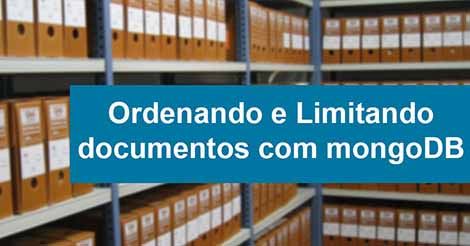
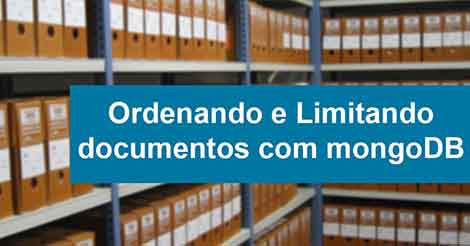
Imagens

diff --git a/Gruntfile.js b/Gruntfile.js
@@ -7,7 +7,8 @@ module.exports = function (grunt) {
         imagemin: {
             png: {
                 options: {
-                    optimizationLevel: 7
+                    optimizationLevel: 7,
+                    progressive: true
                 },
                 files: [
                     {
@@ -25,7 +26,8 @@ module.exports = function (grunt) {
             },
             jpg: {
                 options: {
-                    optimizationLevel: 7
+                    optimizationLevel: 7,
+                    progressive: true
                 },
                 files: [
                     {
@@ -40,25 +42,6 @@ module.exports = function (grunt) {
                         ext: '.jpg'
                     }
                 ]
-            }
-        },
-
-        responsive_images: {
-            thumbs: {
-                options: {
-                    sizes: [{
-                        width: 470,
-                        height: 246,
-                        aspectRatio: true,
-                    }]
-                },
-                files: [{
-                    expand: true,
-                    flatten: true,
-                    src: ['media/compressed/posts/thumbs/*.{jpg,gif,png}'],
-                    cwd: '',
-                    dest: 'media/compressed/thumbs/'
-                }]
             }
         },
 
@@ -137,7 +120,7 @@ module.exports = function (grunt) {
     });
 
     grunt.registerTask("serve", ["shell:jekyllServe"]);
-    grunt.registerTask("default", ["responsive_images", "newer:imagemin", "shell:jekyllBuild", "copy", "open", "watch"]);
+    grunt.registerTask("default", ["newer:imagemin", "shell:jekyllBuild", "copy", "open", "watch"]);
     grunt.registerTask("build", ["imagemin", "responsive_images", "shell:jekyllBuild", "copy"]);
     grunt.registerTask("deploy", ["buildcontrol:pages"]);
 };
